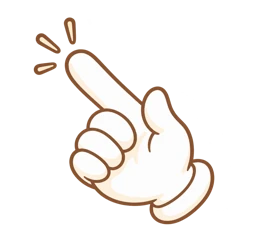
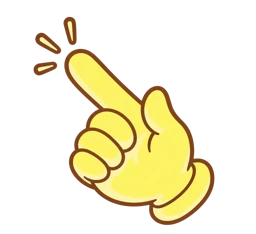
Match tap gloves to yellow accent and show on all bubbles

Changed region(s): [[0.125, 0.0598, 0.8438, 0.9872]]

diff --git a/index.html b/index.html
@@ -30,7 +30,7 @@
         <p class="hero-registration"><span class="nb">初度登録</span><span class="nb">2023年</span></p>
         <a class="hero-question hero-registration-question" href="#qa-vehicle-difference" aria-label="車両の特長をQ&Aで見る">
           <span class="hero-registration-person" aria-hidden="true"><img src="img/hero-woman-clean.webp" alt="" decoding="async"></span>
-          <span class="hero-bubble-group"><span class="hero-question-bubble">新しい！</span></span>
+          <span class="hero-bubble-group"><span class="hero-question-bubble">新しい！</span><img class="hero-tap-glove" src="img/glove-tap.webp" alt="" aria-hidden="true" width="256" height="256" decoding="async"></span>
         </a>
       </div>
       <h1 class="hero-promises" aria-label="特別な安全装備で、最高の思い出を">
@@ -38,7 +38,7 @@
           <span class="hero-promise-copy"><span class="nb">特別な</span><span class="nb">安全装備で</span></span>
           <a class="hero-question hero-safety-link" href="#qa-safety-equipment">
             <span class="hero-driver" aria-hidden="true"><img src="img/hero-driver-clean.webp" alt="" decoding="async"></span>
-            <span class="hero-bubble-group"><span class="hero-question-bubble">なぜ安全なの？</span></span>
+            <span class="hero-bubble-group"><span class="hero-question-bubble">なぜ安全なの？</span><img class="hero-tap-glove" src="img/glove-tap.webp" alt="" aria-hidden="true" width="256" height="256" decoding="async"></span>
           </a>
         </span>
         <span class="hero-promise">
